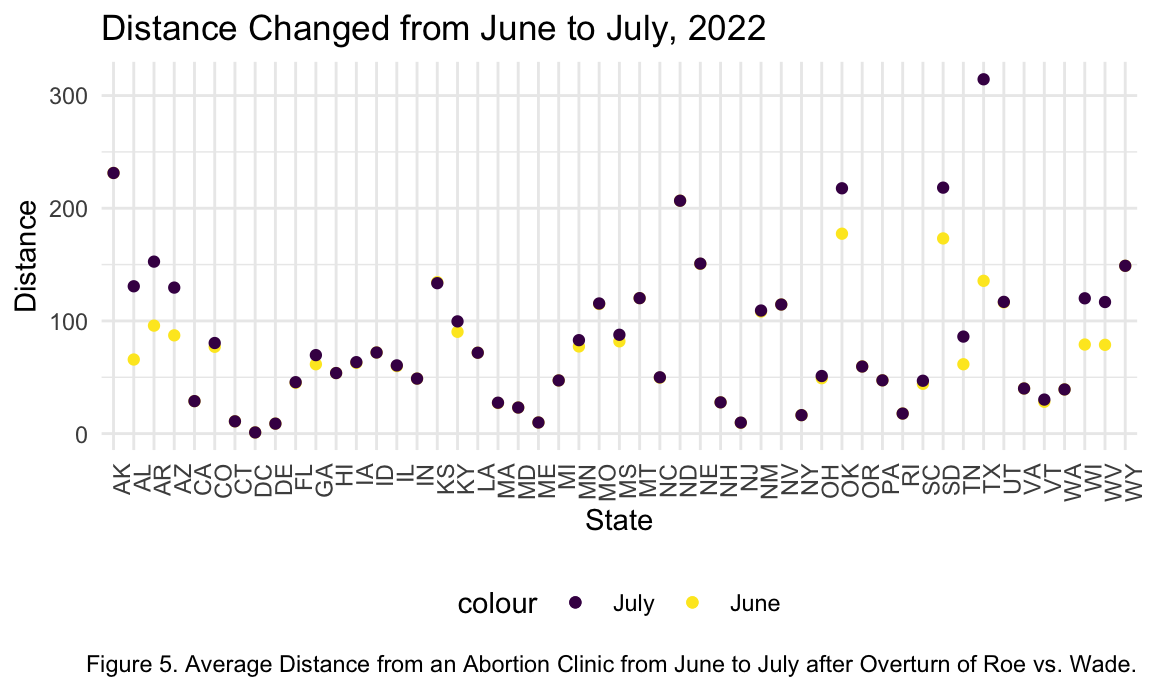
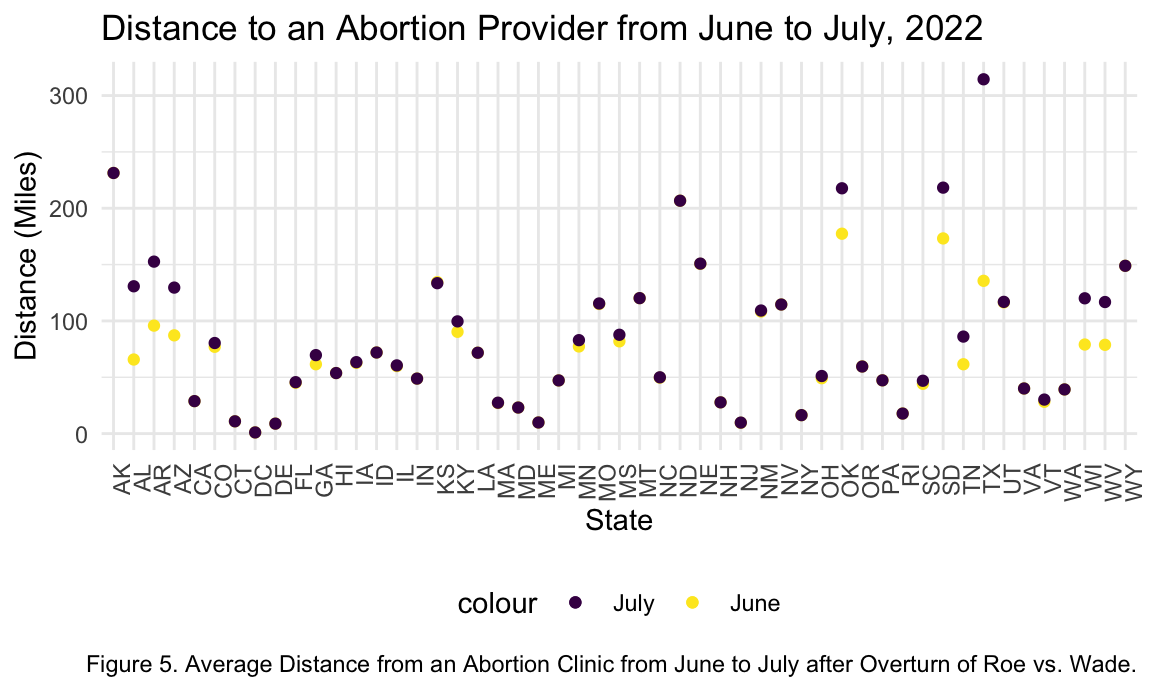
Changing graph labels

Changed region(s): [[0.2188, 0.0, 0.875, 0.0608], [0.0, 0.2127, 0.0312, 0.5166]]

diff --git a/report.html b/report.html
@@ -586,8 +586,24 @@ and clinic abortion distances.</p>
 <div id="voter-turnout-by-state-dataset" class="section level3">
 <h3>Voter Turnout By State: <a
 href="https://www.electproject.org/2022g">dataset</a></h3>
-<p>Cleaning both the Voting 2022 dataset and the Voting 2018
-dataset:</p>
+<p>The 2022 Voter Turnout dataset was pulled from <a
+href="https://www.electproject.org/2022g">US Elections Project</a>. The
+data was downloaded as an xlsx file and read into R with a range
+restriction because the dataset had notes clarifying the data that were
+not useful to import into R. The names of variables of interest were
+renamed to <code>State</code>, <code>turnout_estimate2022</code>,
+<code>turnoutrate2022</code>, <code>voting_eligible_pop2022</code>, and
+<code>voting_age_pop2022</code> because the original names in the
+dataset had been confusing. Those four variables plus
+<code>state_abv</code> was selected out of the dataset. The other
+variables in the dataset involved data on the percent of people who were
+eligible to vote based on age, but were ineligible because of other
+factors which were not of interest to us so they were not kept in our
+final dataset.</p>
+<p>The 2022 Voter Turnout dataset was pulled from <a
+href="https://www.electproject.org/2018g">US Elections Project</a>. This
+dataset was similar to the 2022 Vote Turnout dataset so an identical
+cleaning process was conducted.</p>
 <pre class="r"><code>library(tidyverse)
 library(tidyr)
 library(readxl)
@@ -603,7 +619,17 @@ voting2018_df =
   janitor::clean_names() %&gt;%  
   rename(state = x1, turnout_estimate2018 = estimated_or_actual_2018_total_ballots_counted, turnoutRate2018 = estimated_or_actual_2018_total_ballots_counted_vep_turnout_rate, voting_eligible_pop2018 = voting_eligible_population_vep, voting_age_pop2018 = voting_age_population_vap) %&gt;% 
   select(state, turnout_estimate2018, turnoutRate2018, voting_eligible_pop2018, voting_age_pop2018, state_abv)</code></pre>
-<p>Merging the voting datasets:</p>
+<p>The two datasets were then merged by the <code>state_abv</code>
+variable. New variables were created that were the difference in values
+between 2022 and 2018 so that we could see how values changed between
+the two elections. These variables are
+<code>turnout_estimate_difference</code>,
+<code>turnout_Rate_difference</code>,
+<code>voting_eligible_difference</code>, and
+<code>voting_age_difference</code>. In the merge, there ended up being
+two State variables: <code>state.x</code> and <code>state.y</code>. One
+of the variables were removed and the other one was renamed to
+<code>state</code>.</p>
 <pre class="r"><code>voting_df = 
   full_join(voting2022_df, voting2018_df, by = &quot;state_abv&quot;) %&gt;% 
   select(-state.x) %&gt;% 
@@ -616,6 +642,25 @@ write.csv(voting_df,&quot;data_cleaned/Voting Turnout - Final.csv&quot;, row.nam
 </div>
 <div id="merging-the-three-datasets" class="section level3">
 <h3><strong>Merging the Three Datasets</strong></h3>
+<p>The final three datasets were merged into one large datasets to
+prepare it for analysis. The Abortion Bans dataset was imported into R
+from the .csv file. The Voting Turnout datastet was imported into R from
+the .csv file and the United States row was removed because none of the
+other datasets had an equivalent row. The Distance to an Abortion Clinic
+dataset was imported and the <code>origin_state</code> variable was
+renamed to <code>state_abv</code> to match the other two datasets since
+this was the variable that would be used to join the three datasets.</p>
+<p>The Abortion Bans and Voting Turnout datasets were merged first by
+the <code>state_abv</code> variable that existed in both datasets. In
+the merge, there ended up being two State variables:
+<code>state.x</code> and <code>state.y</code>. One of the variables were
+removed and the other one was renamed to <code>state</code>. This
+combined dataset was then combined with the Distance to an Aborion
+Clinic dataset by the <code>state_abv</code> variable that existed in
+both datasets. The <code>jun</code> variable was renamed to
+<code>clinicdistance_jun</code> and the <code>jul</code> variable was
+renamed to <code>clinicdistance_jul</code> to clarify what these
+variables were.</p>
 <pre class="r"><code>library(tidyverse) 
 library(tidyr)
 
@@ -708,9 +753,9 @@ write.csv(abortionvoting_df,&quot;data_cleaned/finalprojectfinaldataset.csv&quot
   geom_point(aes(y = clinicdistance_jul, colour = &quot;July&quot;)) +
   theme(axis.text.x = element_text(angle = 90, hjust = 1)) +
   labs(
-    title = &quot;Distance Changed from June to July, 2022&quot;,
+    title = &quot;Distance to an Abortion Provider from June to July, 2022&quot;,
     x = &quot;State&quot;,
-    y = &quot;Distance&quot;,
+    y = &quot;Distance (Miles)&quot;,
     caption = &quot;Figure 5. Average Distance from an Abortion Clinic from June to July after Overturn of Roe vs. Wade.&quot;)</code></pre>
 <p><img src="report_files/figure-html/figure%205-1.png" width="90%" /></p>
 <p><img src="images/abortion_status.JPG" style="width:75%"></p>

diff --git a/data.html b/data.html
@@ -13,7 +13,7 @@
 
 <title>Data Sources</title>
 
-<script src="site_libs/header-attrs-2.17/header-attrs.js"></script>
+<script src="site_libs/header-attrs-2.16/header-attrs.js"></script>
 <script src="site_libs/jquery-3.6.0/jquery-3.6.0.min.js"></script>
 <meta name="viewport" content="width=device-width, initial-scale=1" />
 <link href="site_libs/bootstrap-3.3.5/css/yeti.min.css" rel="stylesheet" />
@@ -184,8 +184,8 @@ $(document).ready(function () {
   border-radius: 4px;
 }
 
-.tabset-dropdown > .nav-tabs > li.active:before, .tabset-dropdown > .nav-tabs.nav-tabs-open:before {
-  content: "\e259";
+.tabset-dropdown > .nav-tabs > li.active:before {
+  content: "";
   font-family: 'Glyphicons Halflings';
   display: inline-block;
   padding: 10px;
@@ -193,9 +193,16 @@ $(document).ready(function () {
 }
 
 .tabset-dropdown > .nav-tabs.nav-tabs-open > li.active:before {
-  content: "\e258";
-  font-family: 'Glyphicons Halflings';
+  content: "&#xe258;";
   border: none;
+}
+
+.tabset-dropdown > .nav-tabs.nav-tabs-open:before {
+  content: "";
+  font-family: 'Glyphicons Halflings';
+  display: inline-block;
+  padding: 10px;
+  border-right: 1px solid #ddd;
 }
 
 .tabset-dropdown > .nav-tabs > li.active {

diff --git a/visualization.html b/visualization.html
@@ -477,9 +477,9 @@ the figure, it can be seen that generally the voting age population in
   geom_point(aes(y = clinicdistance_jul, colour = &quot;July&quot;)) +
   theme(axis.text.x = element_text(angle = 90, hjust = 1)) +
   labs(
-    title = &quot;Distance Changed from June to July, 2022&quot;,
+    title = &quot;Distance to An Abortion Provider from June to July, 2022&quot;,
     x = &quot;State&quot;,
-    y = &quot;Distance&quot;,
+    y = &quot;Distance (Miles)&quot;,
     caption = &quot;Figure 5. Average Distance from an Abortion Clinic from June to July after Overturn of Roe vs. Wade.&quot;)</code></pre>
 <p><img src="visualization_files/figure-html/figure%205-1.png" width="672" /></p>
 <p>Figure 5 portrays the average distance from an abortion clinic in
